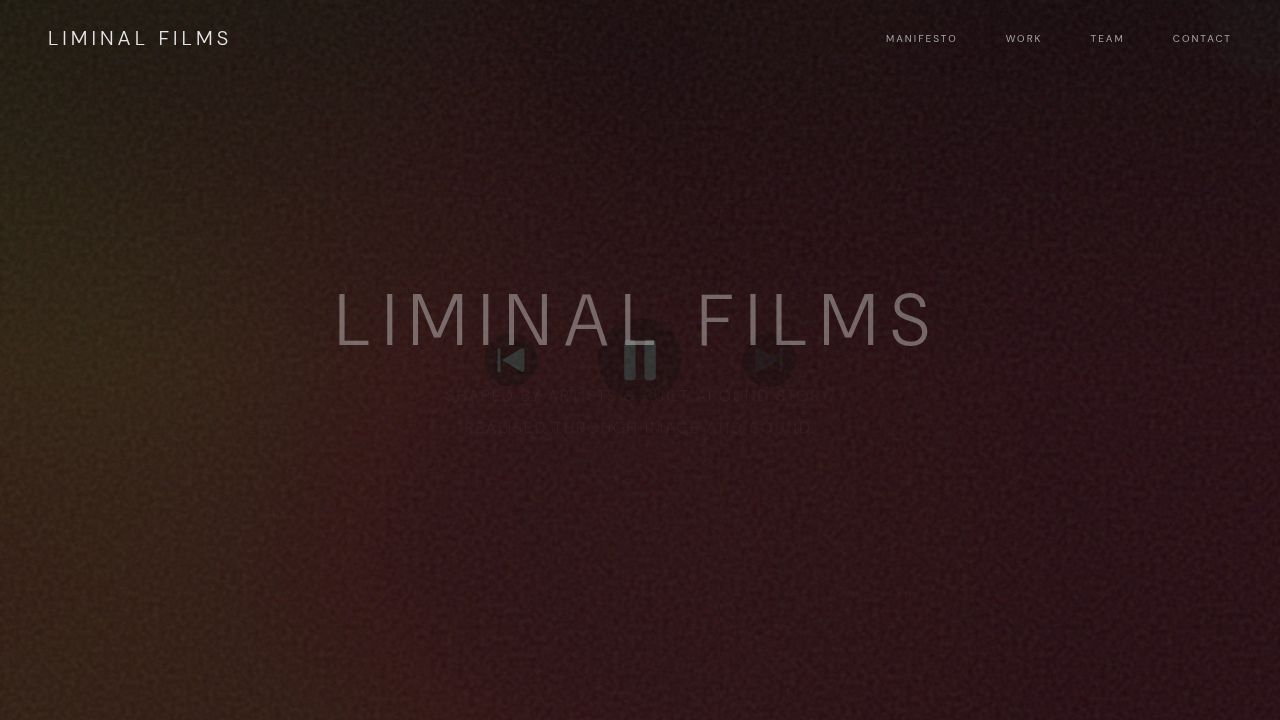
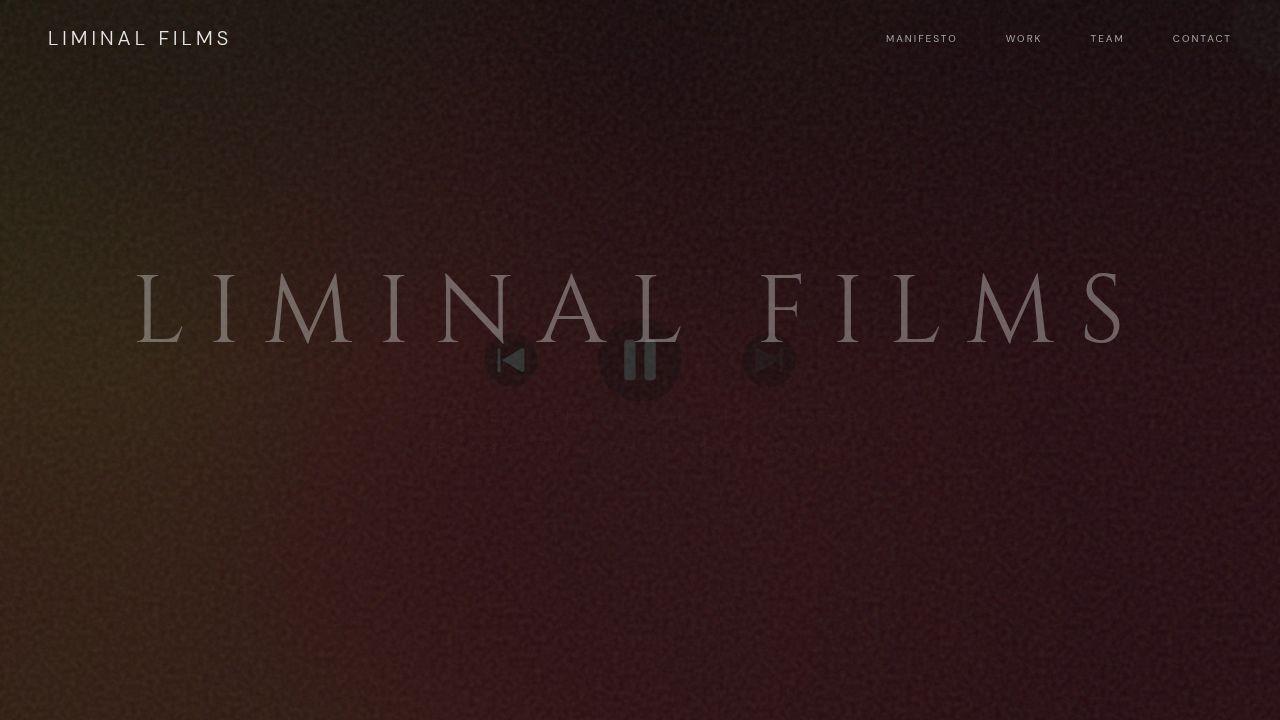
Update website fonts for improved aesthetic and readability
Introduce 'Syne' font for hero sub-heading and revert navigation logo to 'DM Sans', adjusting CSS variables accordingly.

Replit-Commit-Author: Agent
Replit-Commit-Session-Id: ff2ce0f0-7cad-4375-b4a2-53d2b1b7dc89
Replit-Commit-Checkpoint-Type: full_checkpoint
Replit-Commit-Event-Id: 985ce8dc-0ebf-4bc9-8c78-f145387288d2
Replit-Commit-Screenshot-Url: https://storage.googleapis.com/screenshot-production-us-central1/48974fb6-187f-4aca-91dc-7ac49f2044b8/ff2ce0f0-7cad-4375-b4a2-53d2b1b7dc89/HNTAB3P
Replit-Helium-Checkpoint-Created: true

Changed region(s): [[0.0938, 0.3667, 0.8125, 0.4889], [0.8438, 0.3667, 0.875, 0.4889]]

diff --git a/client/index.html b/client/index.html
@@ -17,7 +17,7 @@
     <link rel="icon" type="image/png" href="/favicon.png" />
     <link rel="preconnect" href="https://fonts.googleapis.com">
     <link rel="preconnect" href="https://fonts.gstatic.com" crossorigin>
-    <link href="https://fonts.googleapis.com/css2?family=Cinzel:wght@400;500;600;700&family=Cormorant+Garamond:ital,wght@0,300;0,400;0,500;0,600;0,700;1,300;1,400;1,500;1,600;1,700&family=DM+Sans:ital,opsz,wght@0,9..40,100..1000;1,9..40,100..1000&display=swap" rel="stylesheet">
+    <link href="https://fonts.googleapis.com/css2?family=Cinzel:wght@400;500;600;700&family=Cormorant+Garamond:ital,wght@0,300;0,400;0,500;0,600;0,700;1,300;1,400;1,500;1,600;1,700&family=DM+Sans:ital,opsz,wght@0,9..40,100..1000;1,9..40,100..1000&family=Syne:wght@400;500;600;700;800&display=swap" rel="stylesheet">
   </head>
   <body>
     <div id="root"></div>

diff --git a/client/src/components/Hero.tsx b/client/src/components/Hero.tsx
@@ -32,7 +32,7 @@ export function Hero() {
         </motion.h1>
 
         <motion.p 
-          className="text-sm md:text-base text-muted-foreground/80 max-w-3xl mx-auto font-sans tracking-[0.25em] uppercase leading-loose"
+          className="text-sm md:text-base text-muted-foreground/80 max-w-3xl mx-auto font-sub tracking-[0.25em] uppercase leading-loose"
           initial={{ opacity: 0 }}
           animate={{ opacity: 1 }}
           transition={{ duration: 1.5, delay: 1 }}

diff --git a/client/src/components/Navigation.tsx b/client/src/components/Navigation.tsx
@@ -37,7 +37,7 @@ export function Navigation() {
     >
       <div className="container mx-auto px-6 md:px-12 flex justify-between items-center">
         <Link href="/">
-          <span className="font-display text-xl tracking-[0.2em] text-foreground hover:opacity-70 transition-opacity uppercase cursor-pointer">
+          <span className="font-sans text-xl tracking-[0.2em] text-foreground font-light hover:opacity-70 transition-opacity uppercase cursor-pointer">
             Liminal Films
           </span>
         </Link>

diff --git a/client/src/index.css b/client/src/index.css
@@ -7,6 +7,7 @@
   --font-sans: 'DM Sans', sans-serif;
   --font-serif: 'Cormorant Garamond', serif;
   --font-display: 'Cinzel', serif;
+  --font-sub: 'Syne', sans-serif;
 
   --color-background: hsl(var(--background));
   --color-foreground: hsl(var(--foreground));